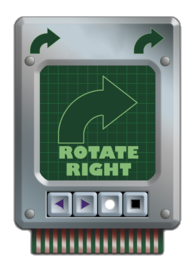
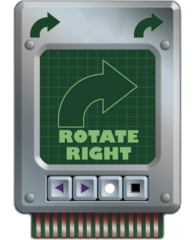
resized card images to fit better with priority font

diff --git a/src/main/java/inf112/skeleton/app/Visuals/CardHandGUI.java b/src/main/java/inf112/skeleton/app/Visuals/CardHandGUI.java
@@ -106,7 +106,7 @@ public class CardHandGUI {
 
         if (showGreetingText) {
             Label txt = new Label("Select 5 cards", assetHandler.getSkin());
-            table.add(txt).colspan(3).left().padLeft(10);
+            table.add(txt).colspan(5).right().padLeft(10);
         }
 
         //handle indicators over cards
@@ -173,7 +173,7 @@ public class CardHandGUI {
         priority.setAlignment(Align.top);
         drawStack.add(priority);
 
-        table.add(drawStack).width(97).height(135);
+        table.add(drawStack).width(97).height(120).padBottom(5);
     }
 
     private void swapCards(Card card) {
